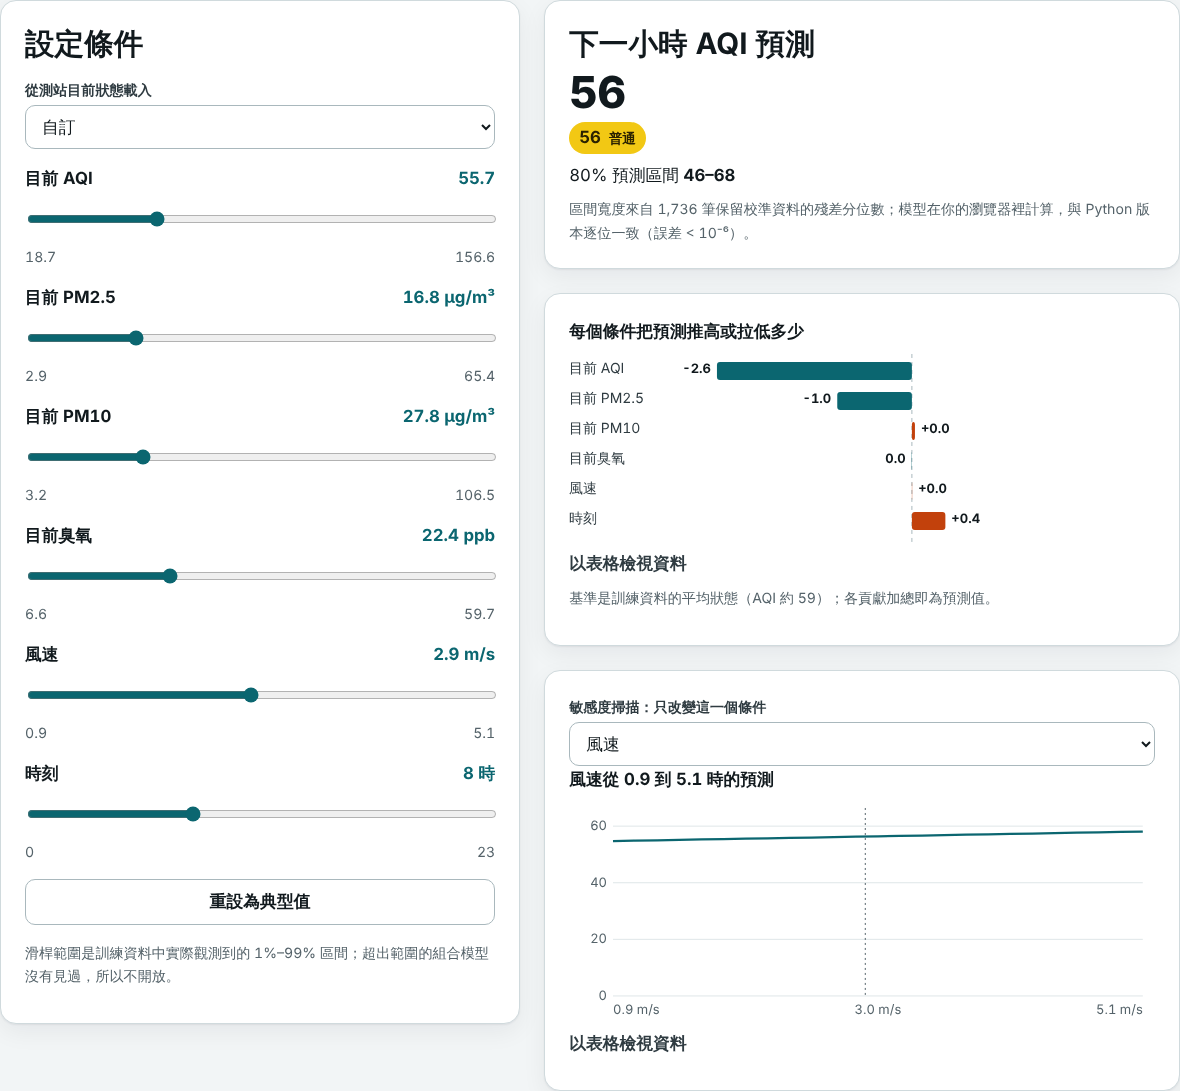
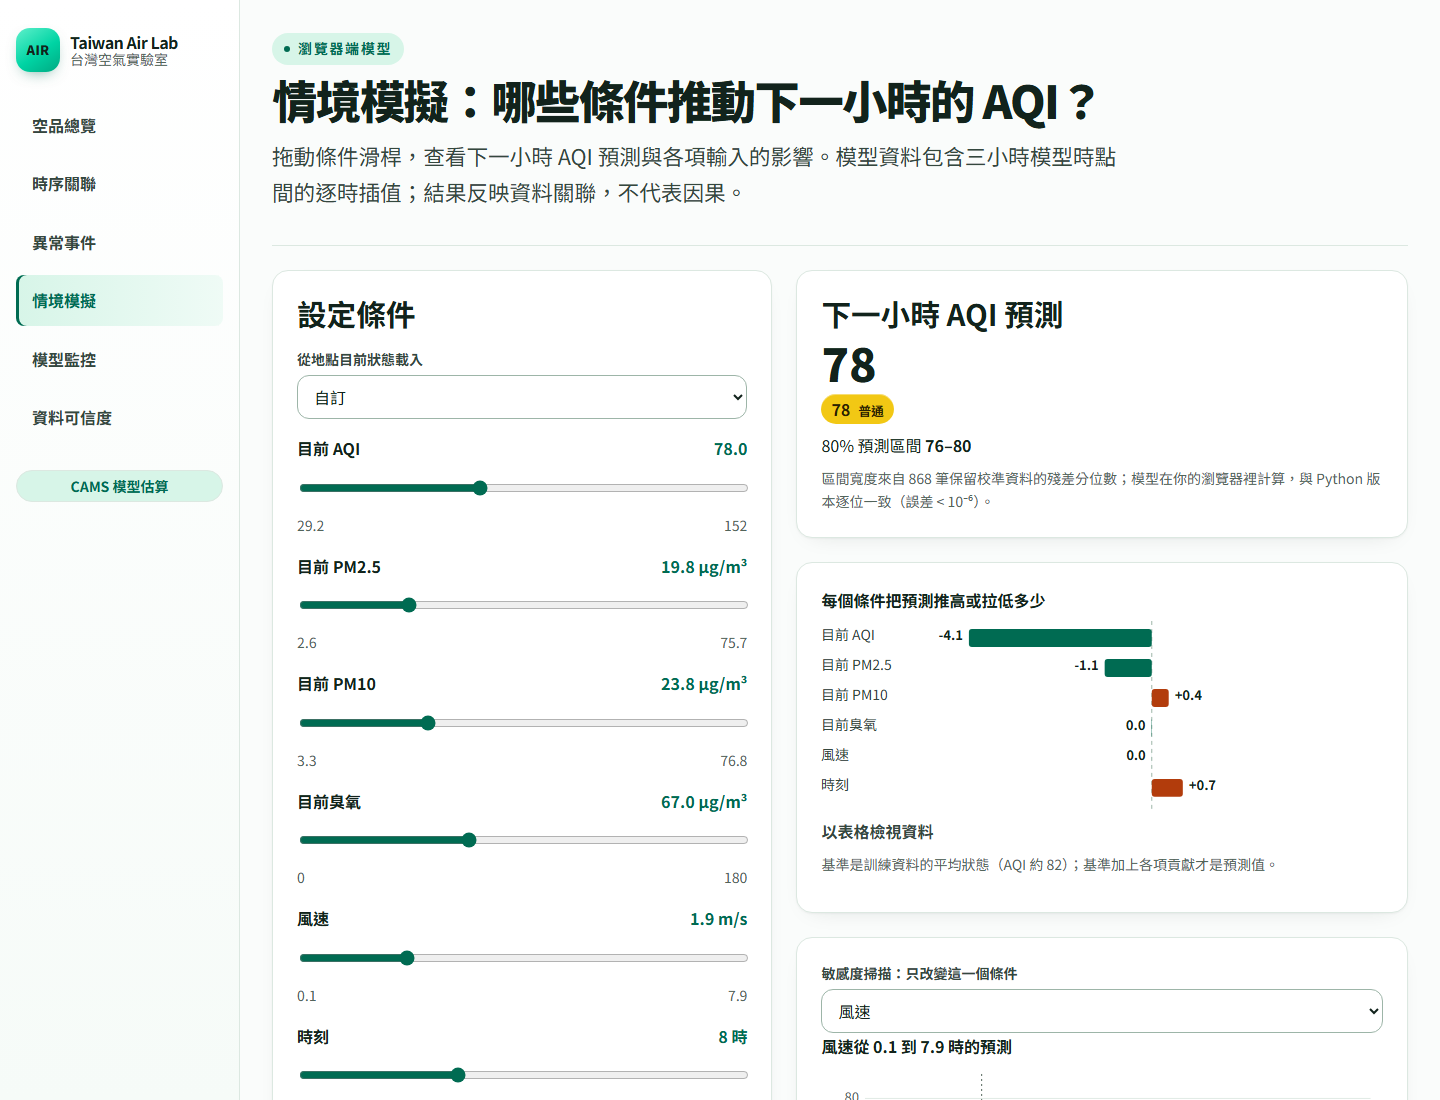
docs: refresh README screenshots; fade hero glow inside its box (#43)
* fix(design): fade the hero glow out before the box edges

Pulling the glow inside the page left both radial gradients cut off at the
hero's edges: a hard mint block on desktop and a grey slab on mobile. One
closest-side gradient now reaches full transparency inside the box.

* docs: refresh README screenshots and add a page gallery

Recapture every screenshot from the current design with the live CAMS data,
add a four-page gallery, link DESIGN.md and state the Node.js requirement.

---------

diff --git a/web/src/styles/polish.css b/web/src/styles/polish.css
@@ -53,9 +53,8 @@ main {
   position: absolute;
   inset: -40px 0 -8px;
   z-index: -1;
-  background:
-    radial-gradient(45% 80% at 90% 0%, rgb(0 212 164 / 0.14), transparent 70%),
-    radial-gradient(35% 60% at 0% 100%, rgb(0 107 82 / 0.06), transparent 70%);
+  /* closest-side keeps the glow fully transparent before any edge of the box. */
+  background: radial-gradient(closest-side at 78% 40%, rgb(0 212 164 / 0.16), transparent);
   pointer-events: none;
 }
 

diff --git a/README.md b/README.md
@@ -20,9 +20,21 @@
 
 ## 功能與技術
 
-提供臺灣多區模型格點、24 小時趨勢、地點比較、異常分析與瀏覽器端情境工具。使用 Python 資料流程、React、TypeScript 與 Vite。
+提供臺灣多區模型格點、24 小時趨勢、地點比較、異常分析與瀏覽器端情境工具。使用 Python 資料流程、React、TypeScript 與 Vite。介面採薄荷色閱讀工作區與桌面側邊導覽，設計原則見 [DESIGN.md](DESIGN.md)。
+
+## 畫面
+
+| 出門時段規劃 | 時序關聯回放 |
+| --- | --- |
+| ![出門時段規劃畫面](docs/screenshots/station-planner.png) | ![時序關聯回放畫面](docs/screenshots/propagation-replay.png) |
+| **異常事件與相關因子** | **情境模擬** |
+| ![異常事件畫面](docs/screenshots/anomaly-attribution.png) | ![情境模擬畫面](docs/screenshots/whatif.png) |
+
+截圖取自正式網站的 CAMS 模型估算資料。
 
 ## 本機執行與驗證
+
+需求：Python 3.12、Node.js 22。
 
 ```bash
 python -m pip install -r requirements.txt -c requirements-lock-py312.txt
